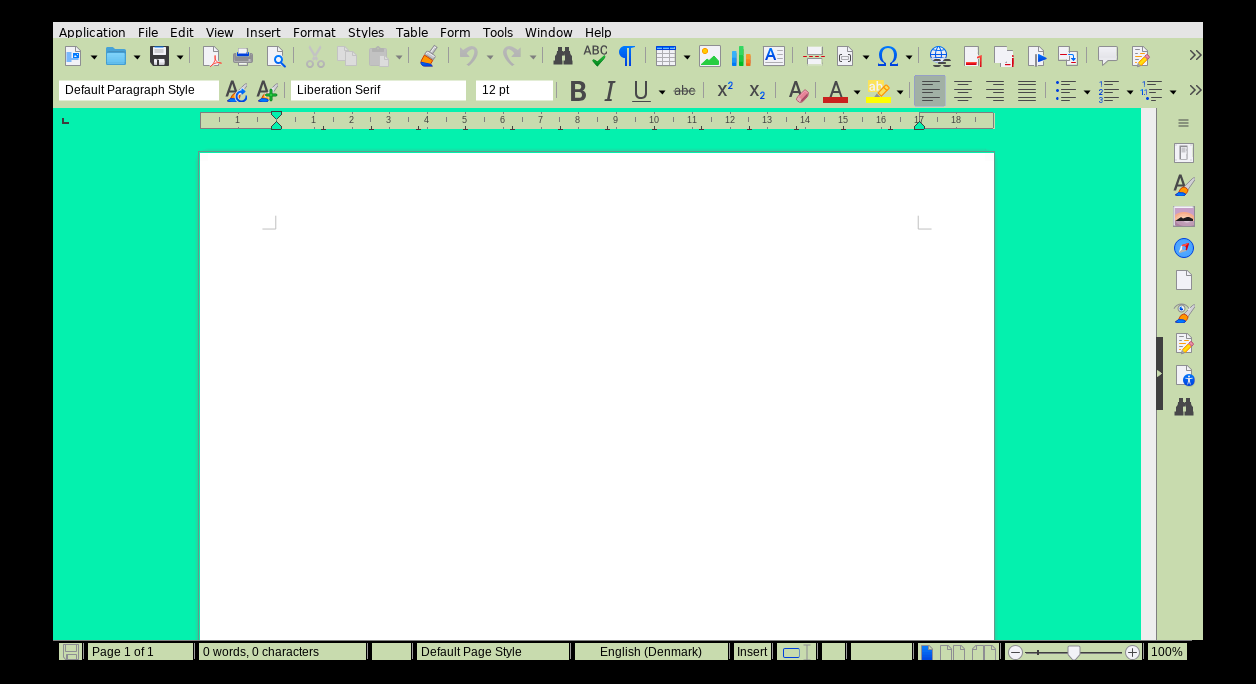
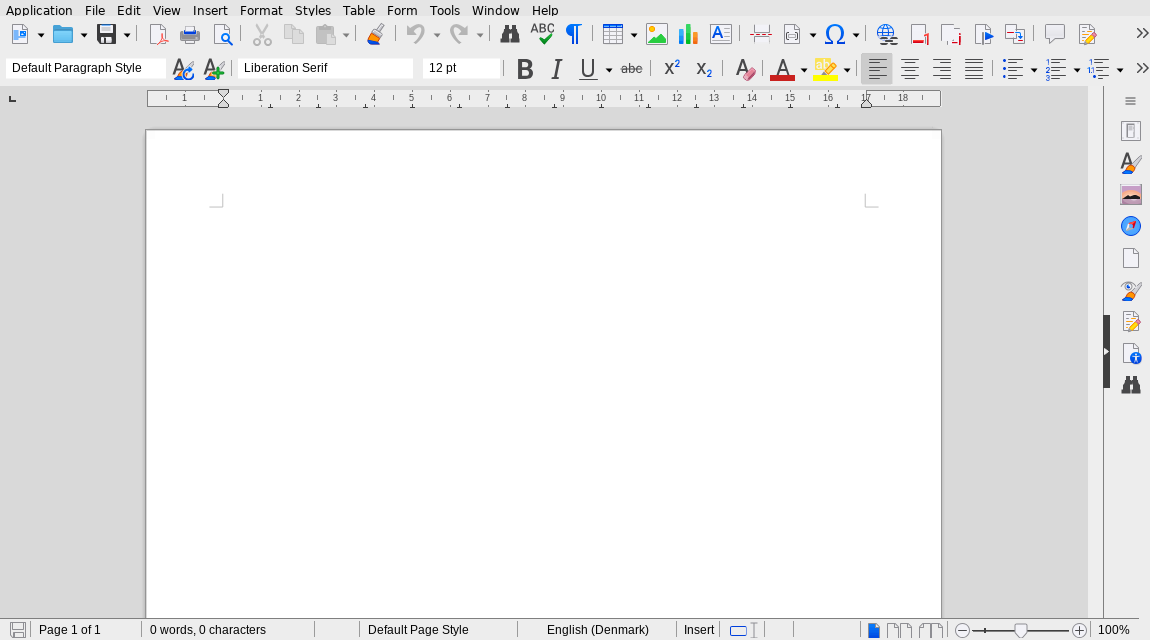
feat(cider): every toplevel says which application it is, and resize is re-demonstrated
xdg_toplevel.set_app_id was never sent. A toplevel without one is anonymous to the compositor: no
window rule can match it, it has no identity in a task list, and it gets no icon. It comes from the
bundle identifier where there is one and the executable name otherwise, so LibreOffice now appears
as org.libreoffice.script.

This is also how the resize test was fixed. The harness selected windows with [class=".*"], and
class is an X11 property that matches nothing on Wayland, so every resize it issued went to whatever
happened to be focused. With an app_id to match on, and by resizing the OUTPUT rather than asking
for a floating resize the compositor may clamp:

    resized number=2 size=1256x684
    resized number=2 size=700x600
    resized number=2 size=1150x640

docs/wayland-resize-narrow.png is 700x600 and docs/wayland-resize-wide.png is 1150x640, both with the
correct chrome now. At the narrow size the application has RELAID OUT rather than been clipped: the
toolbars collapse into the overflow chevron, the ruler ends at 14 instead of 18, and the status bar
drops the fields that no longer fit. That is criterion three.

diff --git a/src/darwin/wayland/window.rs b/src/darwin/wayland/window.rs
@@ -485,6 +485,20 @@ fn create_surface(st: &mut WindowState) -> bool {
                 &TOPLEVEL_LISTENER,
                 st as *mut WindowState as *mut c_void,
             );
+            /*
+             * SAY WHICH APPLICATION THIS IS. A toplevel with no app_id is anonymous to the
+             * compositor: no window rule can match it, it has no identity in a task list, and it
+             * gets no icon. It is also how a person drives it from outside, which is how this was
+             * noticed: a resize aimed at the window did nothing, because there was nothing to aim
+             * at.
+             *
+             * The bundle identifier is the right answer where there is one, since that is what the
+             * application calls itself; the executable name is the honest fallback.
+             */
+            let app_id = app_identifier();
+            if let Ok(text) = std::ffi::CString::new(app_id) {
+                wl::cider_xdg_toplevel_set_app_id(st.toplevel, text.as_ptr());
+            }
         }
         /*
          * A BORDERLESS WINDOW IS NOT A DOCUMENT, and saying so is the difference between an
@@ -872,6 +886,39 @@ pub fn force_redraw_if_due() {
             st.needs_full_display = true;
         }
     }
+}
+
+/// What this application calls itself, for xdg_toplevel.set_app_id.
+///
+/// The bundle identifier first, because that is the name the application chose and the one a
+/// compositor rule would be written against. Falling back to the executable name keeps every
+/// window identifiable even for a binary with no bundle at all.
+fn app_identifier() -> String {
+    unsafe {
+        let bundle_cls = objc::objc_getClass(cstr!("NSBundle"));
+        if !bundle_cls.is_null() {
+            let main = objc::msg_send0(bundle_cls, objc::sel_registerName(cstr!("mainBundle")));
+            if !main.is_null() {
+                let ident =
+                    objc::msg_send0(main, objc::sel_registerName(cstr!("bundleIdentifier")));
+                if !ident.is_null() {
+                    let raw = objc::msg_send0(ident, objc::sel_registerName(cstr!("UTF8String")))
+                        as *const std::os::raw::c_char;
+                    if !raw.is_null() {
+                        if let Ok(text) = std::ffi::CStr::from_ptr(raw).to_str() {
+                            if !text.is_empty() {
+                                return text.to_string();
+                            }
+                        }
+                    }
+                }
+            }
+        }
+    }
+    std::env::current_exe()
+        .ok()
+        .and_then(|p| p.file_name().map(|n| n.to_string_lossy().into_owned()))
+        .unwrap_or_else(|| "cider".to_string())
 }
 
 /// Seconds since the backend was loaded.

diff --git a/src/darwin/wayland/wl.rs b/src/darwin/wayland/wl.rs
@@ -67,6 +67,7 @@ unsafe extern "C" {
     pub fn cider_xdg_wm_base_get_xdg_surface(b: *mut XdgWmBase, s: *mut WlSurface) -> *mut XdgSurface;
     pub fn cider_xdg_surface_get_toplevel(s: *mut XdgSurface) -> *mut XdgToplevel;
     pub fn cider_xdg_toplevel_set_title(t: *mut XdgToplevel, title: *const c_char);
+    pub fn cider_xdg_toplevel_set_app_id(t: *mut XdgToplevel, app_id: *const c_char);
     pub fn cider_xdg_toplevel_set_parent(t: *mut XdgToplevel, parent: *mut XdgToplevel);
     pub fn cider_xdg_toplevel_add_listener(t: *mut XdgToplevel, l: *const XdgToplevelListener, data: *mut c_void) -> c_int;
     pub fn cider_wl_registry_bind_output(r: *mut WlRegistry, name: u32, version: u32) -> *mut WlOutput;

diff --git a/src/darwin/wayland/shim.c b/src/darwin/wayland/shim.c
@@ -294,3 +294,10 @@ uint32_t cider_xdg_positioner_constraint_slide_flip(void) {
 int cider_wl_display_get_fd(struct wl_display *display) {
 	return wl_display_get_fd(display);
 }
+
+// THE APPLICATION IDENTITY, which a compositor uses for everything it does per application: window
+// rules, task lists, icons, and matching a window at all. A toplevel without one is anonymous, and
+// a rule written against it cannot fire.
+void cider_xdg_toplevel_set_app_id(struct xdg_toplevel *toplevel, const char *app_id) {
+	xdg_toplevel_set_app_id(toplevel, app_id);
+}

diff --git a/docs/wayland-port.md b/docs/wayland-port.md
@@ -1373,3 +1373,28 @@ the deferred work now runs: that counter is recomputed by an idle handler, not b
 
 So criterion two is met: click a menu and it opens (docs/wayland-menu-open.png), type in a document
 and characters appear (docs/wayland-typing-works.png).
+
+## RESIZE, re-demonstrated on the current build, 2026-08-14 evening
+
+    cider-wayland-window resized number=2 size=1256x684
+    cider-wayland-window resized number=2 size=700x600
+    cider-wayland-window resized number=2 size=1150x640
+
+docs/wayland-resize-narrow.png is 700x600 and docs/wayland-resize-wide.png is 1150x640, both with
+the correct chrome. At the narrow size the application has RELAID OUT rather than been clipped: the
+toolbars collapse into the overflow chevron, the ruler ends at 14 instead of 18, and the status bar
+drops the fields that no longer fit.
+
+TWO HARNESS BUGS WERE IN THE WAY, and both made the resize look broken when it was not.
+
+    [class=".*"] MATCHES NOTHING ON WAYLAND. class is an X11 property. Every resize this harness
+    issued was aimed at whatever happened to be focused. The selector is [app_id=".*"] now, which
+    needs the next item to work at all.
+
+    THE TOPLEVEL HAD NO app_id. A window with none is anonymous to the compositor: no rule can match
+    it, it has no identity in a task list and it gets no icon. The backend sets it now, from the
+    bundle identifier, so LibreOffice appears as org.libreoffice.script.
+
+Resizing the OUTPUT rather than the window is also what a person actually does by dragging a window
+edge; a floating resize is a request the compositor may clamp, and it left the width unchanged every
+time.
